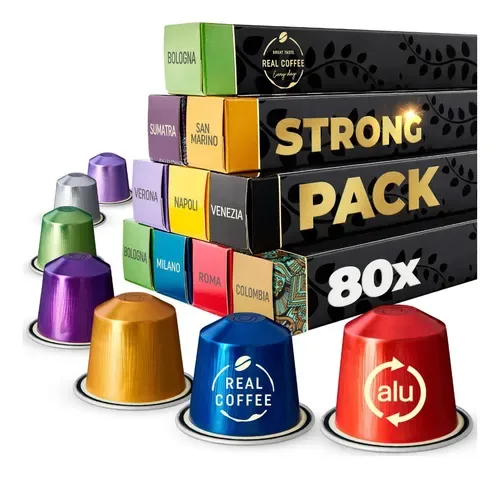
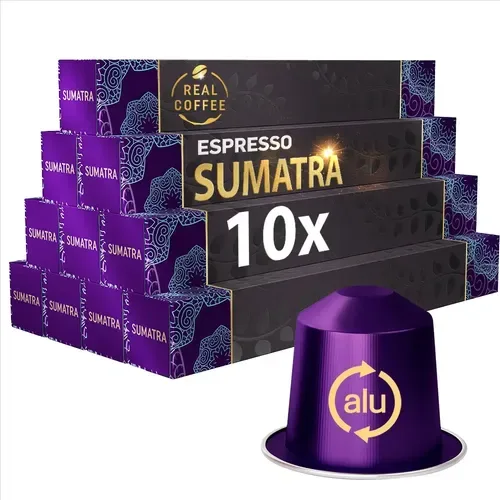
feat: enlaces Jumbo, cajas de 10 cápsulas y calendario de té

diff --git a/cumple-2026/index.html b/cumple-2026/index.html
@@ -174,6 +174,10 @@ h2.section {
   color: var(--accent);
 }
 a.item:hover { border-color: var(--accent); }
+.links { display: flex; flex-wrap: wrap; gap: .25rem .75rem; }
+.links a { color: var(--accent); text-decoration: none; padding: .25rem 0; }
+.btns { display: grid; gap: .5rem; }
+.btn.alt { background: var(--surface); color: var(--accent); border: 2px solid var(--accent); }
 a:focus-visible { outline: 3px solid var(--accent); outline-offset: 3px; }
 
 footer {
@@ -199,59 +203,52 @@ footer {
     <div class="body">
       <span class="badge">⭐ Lo que más quiero</span>
       <h2 id="top">Cápsulas Lavazza Maestro Intenso</h2>
-      <p>Compatibles con Nespresso. Vienen en cajas de 10: mientras más cajas, mejor ☕ Dato: en el Jumbo están más baratas.</p>
-      <a class="btn" href="https://www.mercadolibre.cl/cafe-espresso-maestro-intenso-10-capsulas-lavazza/p/MLC37210050" target="_blank" rel="noopener">Ver en Mercado Libre</a>
+      <p>Compatibles con Nespresso. Vienen en cajas de 10: mientras más cajas, mejor ☕ En el Jumbo suelen estar más baratas.</p>
+      <div class="btns">
+        <a class="btn" href="https://www.jumbo.cl/capsula-espresso-intenso-lavazza-57-g-1971950/p" target="_blank" rel="noopener">Ver en Jumbo</a>
+        <a class="btn alt" href="https://www.mercadolibre.cl/cafe-espresso-maestro-intenso-10-capsulas-lavazza/p/MLC37210050" target="_blank" rel="noopener">Ver en Mercado Libre</a>
+      </div>
     </div>
   </section>
 
   <h2 class="section">Otras ideas</h2>
   <ul class="grid">
     <li>
-      <a class="item" href="https://www.mercadolibre.cl/cafe-en-capsulas-lavazza-espresso-descafeinado-10-un/up/MLCU5869224773" target="_blank" rel="noopener">
+      <div class="item">
         <div class="photo"><img src="img/lavazza-dek.webp" width="258" height="500" alt="Caja de cápsulas Lavazza Espresso Maestro Dek" loading="lazy"></div>
         <div class="body">
           <h3>Lavazza sin cafeína</h3>
-          <p>Espresso Maestro Dek, para Nespresso. Ojo: no las de Lavazza Blue. Más baratas en el Jumbo.</p>
-          <span class="meta">Mercado Libre →</span>
+          <p>Espresso Maestro Dek, para Nespresso. Caja de 10. Ojo: no las de Lavazza Blue.</p>
+          <span class="meta links"><a href="https://www.jumbo.cl/capsula-espresso-descaf-lavazza-58-g-1972044/p" target="_blank" rel="noopener">Jumbo →</a><a href="https://www.mercadolibre.cl/cafe-en-capsulas-lavazza-espresso-descafeinado-10-un/up/MLCU5869224773" target="_blank" rel="noopener">Mercado Libre →</a></span>
         </div>
-      </a>
+      </div>
     </li>
     <li>
-      <a class="item" href="https://www.mercadolibre.cl/capsula-de-cafe-starbucks-by-nespresso-cafe-blonded-espresso-roasted-con-10-capsulas-de-53g/p/MLC17465270" target="_blank" rel="noopener">
+      <div class="item">
         <div class="photo"><img src="img/capsulas-starbucks.webp" width="81" height="500" alt="Caja de cápsulas Starbucks Blonde Espresso Roast by Nespresso" loading="lazy"></div>
         <div class="body">
           <h3>Starbucks by Nespresso</h3>
-          <p>Hechas para Nespresso. Por ejemplo, Blonde Espresso Roast.</p>
-          <span class="meta">Mercado Libre →</span>
+          <p>Hechas para Nespresso. Caja de 10, por ejemplo Blonde Espresso Roast.</p>
+          <span class="meta links"><a href="https://www.jumbo.cl/caps-starbucks-nespresso-blonde-espr-53g-1957068/p" target="_blank" rel="noopener">Jumbo →</a><a href="https://www.mercadolibre.cl/capsula-de-cafe-starbucks-by-nespresso-cafe-blonded-espresso-roasted-con-10-capsulas-de-53g/p/MLC17465270" target="_blank" rel="noopener">Mercado Libre →</a></span>
         </div>
-      </a>
+      </div>
     </li>
     <li>
-      <a class="item" href="https://www.mercadolibre.cl/capsulas-cafe-compatibles-nespresso-pack-favoritos-50-unidades-cafe-senor-k/p/MLC54638614" target="_blank" rel="noopener">
-        <div class="photo"><img src="img/capsulas-senork.webp" width="462" height="500" alt="Pack de cápsulas Café Señor K" loading="lazy"></div>
-        <div class="body">
-          <h3>Café Señor K</h3>
-          <p>Tostaduría chilena, compatibles con Nespresso. Pack de 50.</p>
-          <span class="meta">Mercado Libre →</span>
-        </div>
-      </a>
-    </li>
-    <li>
-      <a class="item" href="https://www.mercadolibre.cl/pack-50-capsulas-puelo-coffee-roasters-cafe-de-especialidad-coffee-blend-capsula-nespresso/p/MLC74752229" target="_blank" rel="noopener">
-        <div class="photo"><img src="img/capsulas-puelo.webp" width="439" height="500" alt="Pack de cápsulas Puelo Coffee Roasters" loading="lazy"></div>
+      <a class="item" href="https://www.mercadolibre.cl/capsulas-de-cafe-martin-pescador-puelo-coffee-roasters/p/MLC70152698" target="_blank" rel="noopener">
+        <div class="photo"><img src="img/capsulas-puelo.webp" width="207" height="500" alt="Caja de cápsulas Puelo Coffee Roasters Martín Pescador" loading="lazy"></div>
         <div class="body">
           <h3>Puelo Coffee Roasters</h3>
-          <p>Café de especialidad chileno, compatibles con Nespresso. Pack de 50.</p>
+          <p>Café de especialidad chileno para Nespresso. Caja de 10, por ejemplo Martín Pescador.</p>
           <span class="meta">Mercado Libre →</span>
         </div>
       </a>
     </li>
     <li>
-      <a class="item" href="https://www.mercadolibre.cl/pack-80-capsulas-compatibles-real-coffee-cafe-para-nespresso/p/MLC37245450" target="_blank" rel="noopener">
-        <div class="photo"><img src="img/capsulas-realcoffee.webp" width="500" height="478" alt="Pack de 80 cápsulas Real Coffee" loading="lazy"></div>
+      <a class="item" href="https://www.mercadolibre.cl/capsulas-real-coffee-sumatra-compatible-con-nespresso/p/MLC36483584" target="_blank" rel="noopener">
+        <div class="photo"><img src="img/capsulas-realcoffee.webp" width="500" height="500" alt="Cápsulas Real Coffee Espresso Sumatra" loading="lazy"></div>
         <div class="body">
           <h3>Real Coffee</h3>
-          <p>Cápsulas de aluminio compatibles con Nespresso. Pack de 80.</p>
+          <p>Cápsulas de aluminio para Nespresso. Caja de 10, por ejemplo Sumatra.</p>
           <span class="meta">Mercado Libre →</span>
         </div>
       </a>
@@ -307,12 +304,22 @@ footer {
       </a>
     </li>
     <li>
-      <a class="item" href="https://www.lindt.cl/calendario-de-adviento-lindt-magic-115g-430793/p" target="_blank" rel="noopener">
+      <div class="item">
         <div class="photo"><img src="img/calendario-lindt.webp" width="600" height="600" alt="Calendario de adviento Lindt Magic" loading="lazy"></div>
         <div class="body">
           <h3>Calendario de adviento Lindt</h3>
-          <p>Lindt Magic, 115 g. Si no hay en lindt.cl, también está en el Jumbo.</p>
-          <span class="meta">Lindt →</span>
+          <p>En lindt.cl el Magic 115 g está sin stock por ahora; en el Jumbo hay uno de 170 g.</p>
+          <span class="meta links"><a href="https://www.jumbo.cl/calendario-advient-2096207/p" target="_blank" rel="noopener">Jumbo →</a><a href="https://www.lindt.cl/calendario-de-adviento-lindt-magic-115g-430793/p" target="_blank" rel="noopener">Lindt →</a></span>
+        </div>
+      </div>
+    </li>
+    <li>
+      <a class="item" href="https://adagio.cl/products/calendario-de-adviento" target="_blank" rel="noopener">
+        <div class="photo"><img src="img/calendario-te-adagio.webp" width="600" height="600" alt="Calendario de adviento de té Adagio con taza" loading="lazy"></div>
+        <div class="body">
+          <h3>Calendario de adviento de té</h3>
+          <p>Adagio Teas: 24 bolsitas de 12 tés distintos, con taza.</p>
+          <span class="meta">Adagio →</span>
         </div>
       </a>
     </li>
@@ -381,7 +388,8 @@ footer {
         <div class="photo emoji" aria-hidden="true">🍫</div>
         <div class="body">
           <h3>Chocolate 85 %</h3>
-          <p>Chocolate amargo, 85 % cacao.</p>
+          <p>Chocolate amargo, 85 % cacao. Por ejemplo, Lindt Excellence o Sarotti.</p>
+          <span class="meta links"><a href="https://www.jumbo.cl/chocolate-extra-fino-lindt-barra-100-g-dark-amargo-85-cacao/p" target="_blank" rel="noopener">Lindt en Jumbo →</a><a href="https://www.jumbo.cl/choco-sarotti-amargo-85-10un-100gr-2002817/p" target="_blank" rel="noopener">Sarotti en Jumbo →</a></span>
         </div>
       </div>
     </li>
